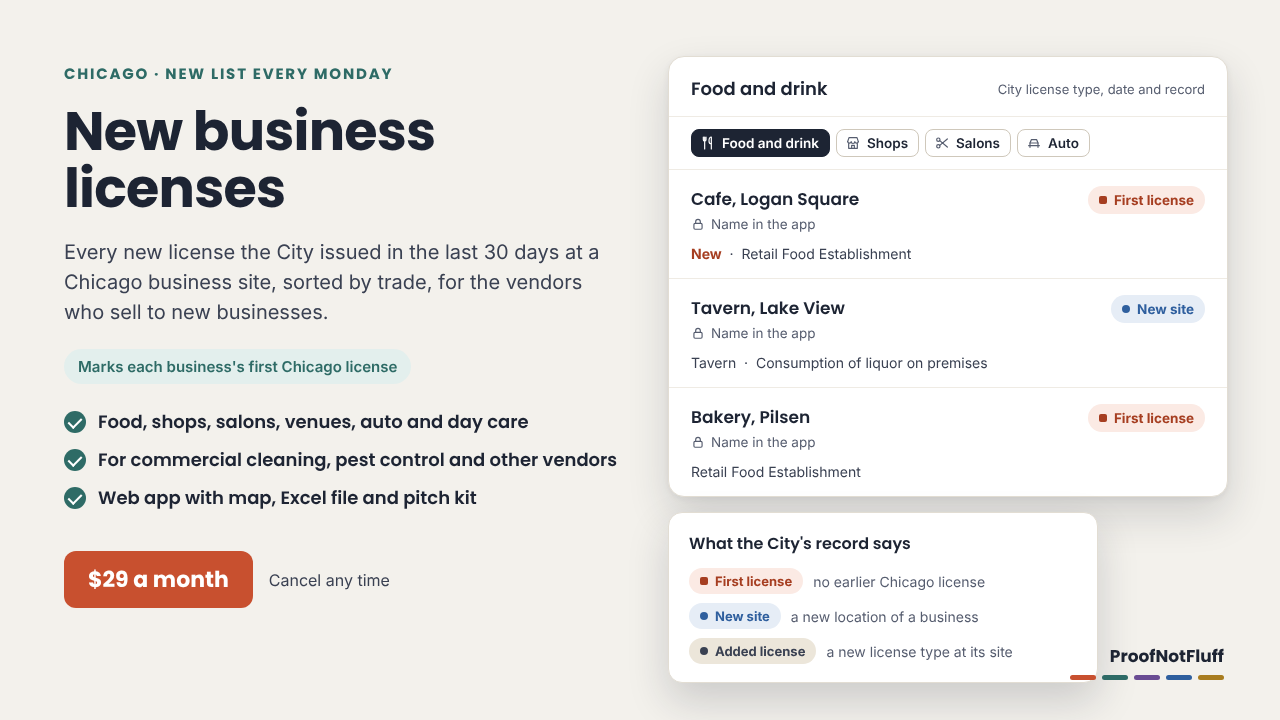
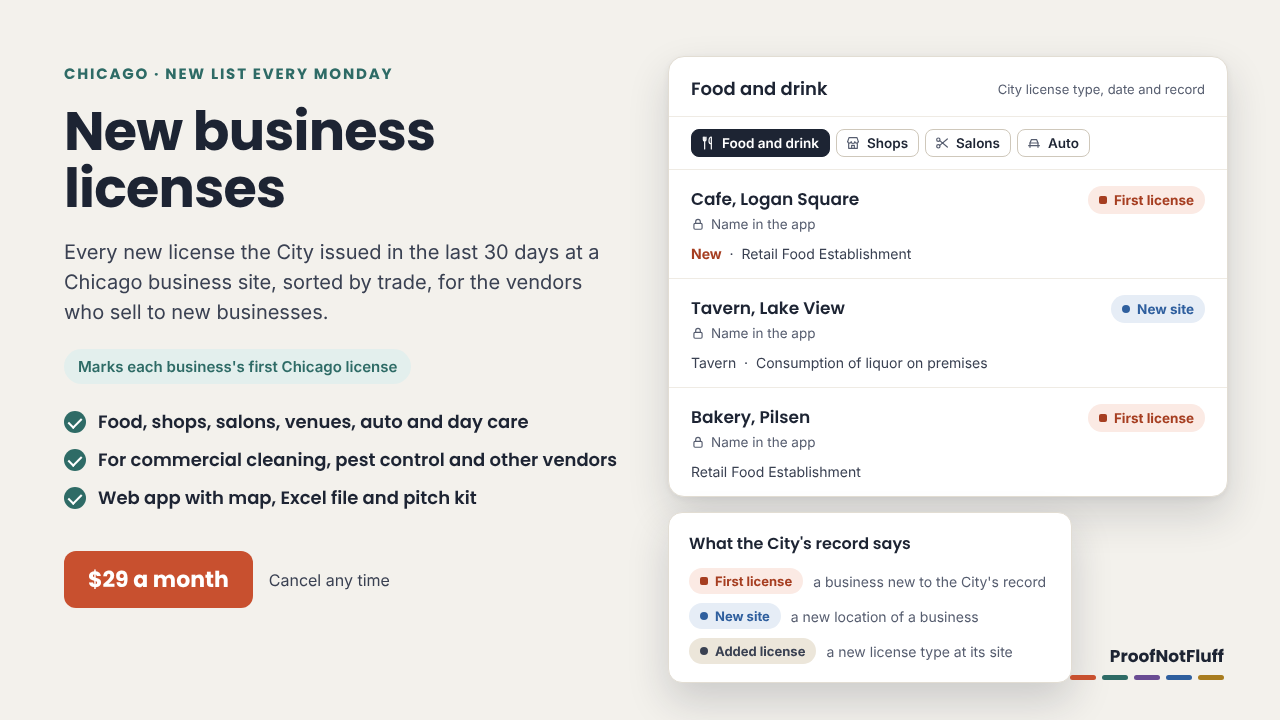
Licenses: one set of trade names on every surface, whole activities, tidier rows, tools README
Claude-Session: https://claude.ai/code/session_01XnX34ksV3GY3Ab6wG7Aich

Changed region(s): [[0.625, 0.7028, 0.875, 0.9472]]

diff --git a/docs/chicago-new-business-licenses/index.html b/docs/chicago-new-business-licenses/index.html
@@ -1,7 +1,7 @@
 <!doctype html>
 <html lang="en"><head><meta charset="utf-8"><meta name="viewport" content="width=device-width,initial-scale=1">
-<title>Chicago New Business Licenses: This Week&#x27;s New Businesses by Trade | ProofNotFluff</title><meta name="description" content="Free weekly sample of new Chicago business licenses by trade: restaurants, shops, salons, venues and auto shops licensed in the last 30 days, for vendors who sell to new businesses.">
-<link rel="canonical" href="https://proofnotfluff.com/chicago-new-business-licenses/"><meta name="robots" content="noindex, nofollow"><script defer src="https://static.cloudflareinsights.com/beacon.min.js" data-cf-beacon='{"token": "b40d887129c342ccb476aa67aad72034"}'></script><meta property="og:title" content="Chicago New Business Licenses: This Week&#x27;s New Businesses by Trade | ProofNotFluff"><meta property="og:description" content="Free weekly sample of new Chicago business licenses by trade: restaurants, shops, salons, venues and auto shops licensed in the last 30 days, for vendors who sell to new businesses.">
+<title>Chicago New Business Licenses: This Week&#x27;s New Licenses by Trade | ProofNotFluff</title><meta name="description" content="Free weekly sample of new Chicago business licenses by trade: restaurants, shops, salons, venues and auto shops licensed in the last 30 days, for vendors who sell to new businesses.">
+<link rel="canonical" href="https://proofnotfluff.com/chicago-new-business-licenses/"><meta name="robots" content="noindex, nofollow"><script defer src="https://static.cloudflareinsights.com/beacon.min.js" data-cf-beacon='{"token": "b40d887129c342ccb476aa67aad72034"}'></script><meta property="og:title" content="Chicago New Business Licenses: This Week&#x27;s New Licenses by Trade | ProofNotFluff"><meta property="og:description" content="Free weekly sample of new Chicago business licenses by trade: restaurants, shops, salons, venues and auto shops licensed in the last 30 days, for vendors who sell to new businesses.">
 <meta property="og:type" content="website"><meta property="og:url" content="https://proofnotfluff.com/chicago-new-business-licenses/">
 <link rel="preconnect" href="https://fonts.googleapis.com"><link rel="preconnect" href="https://fonts.gstatic.com" crossorigin>
 <link href="https://fonts.googleapis.com/css2?family=Poppins:wght@600;700&display=swap" rel="stylesheet">
@@ -10,6 +10,6 @@
 </head><body class="ld-page">
 <header class="top"><div class="wrap"><div><a class="brand" href="../">ProofNotFluff</a><div class="bars"><i></i><i></i><i></i><i></i><i></i></div></div>
 <nav class="top"><a href="../">Free calculators</a><a href="https://proofnotfluff.etsy.com">Etsy shop</a></nav></div></header>
-<main class="wrap"><div class="ld-hero"><p class="eyebrow">Free sample, updated every Monday</p><h1>Chicago New Business Licenses</h1><p class="lede">58 Chicago businesses got a new City business license in the week to Oct 22, 2026, and 231 in the last 30 days. For vendors who sell to a business in its first months: POS and payments, signs, insurance, bookkeeping, cleaning, pest control, waste and supplies.</p><div class="ld-heroact rl-act"><a class="btn ld-btnbig" href="mailto:hello@proofnotfluff.com?subject=Chicago%20New%20Business%20Licenses%3A%20tell%20me%20when%20it%20opens">Tell me when it opens</a><a class="ld-textlink" href="#sample">See this week's sample</a></div><p class="ld-heronote">Not on sale yet. New list every Monday.</p></div><div class="tiles ld-tiles"><div class="tile key"><div class="lab">New in 30 days</div><div class="val">231</div><div class="sub">licensed business sites</div></div><div class="tile"><div class="lab">New this week</div><div class="val">58</div><div class="sub">licensed in the last 7 days</div></div><div class="tile"><div class="lab">Food businesses</div><div class="val">93</div><div class="sub">restaurants, cafes, bars, shops</div></div><div class="tile"><div class="lab">Busiest area this week</div><div class="val lc-area">Lake View</div><div class="sub">5 new licenses</div></div></div><p class="asof">City records pulled Oct 22, 2026. Refreshed every Monday.</p><section class="block"><h2>New businesses by trade, last 30 days</h2><p>Each new business on the list, sorted by what it does, so you can work the trades that buy from you.</p><ol class="rl-trades"><li><span class="nm">Restaurants, cafes, bars and food shops<small>29 new this week</small></span><span class="n">93</span></li><li><span class="nm">Shops, offices and other services<small>21 new this week</small></span><span class="n">90</span></li><li><span class="nm">Salons, barbers, nails, spas and fitness<small>6 new this week</small></span><span class="n">38</span></li><li><span class="nm">Venues, entertainment and lodging<small>1 new this week</small></span><span class="n">2</span></li><li><span class="nm">Auto repair, tire and car wash shops<small>1 new this week</small></span><span class="n">7</span></li><li><span class="nm">Day care and children&#x27;s services<small>0 new this week</small></span><span class="n">1</span></li></ol></section><section class="block" id="sample"><h2>This week's sample</h2><p>Up to three new businesses per trade from the last 7 days. The members' list has every one from the last 30 days, with a map, filters by trade, area and date, and an Excel file.</p><h3 class="lc-h3">Restaurants, cafes, bars and food shops <span>(29 this week)</span></h3><div class="ld-list rl3"><article class="ld-proj"><p class="ld-pill lc-pill">Licensed Oct 21, 2026</p><div class="ld-ptop"><span class="ld-cost" style="font-size:20px">Stew Kitchen</span></div><dl class="ld-meta"><div><dt>Where</dt><dd>4329 N Mozart St 1f, Irving Park</dd></div><div><dt>License</dt><dd>Shared Kitchen User (Long Term)</dd></div><div><dt>Activity</dt><dd>Shared Kitchen User - Long Term</dd></div></dl></article><article class="ld-proj"><p class="ld-pill lc-pill">Licensed Oct 21, 2026</p><div class="ld-ptop"><span class="ld-cost" style="font-size:20px">Pearl Club</span></div><dl class="ld-meta"><div><dt>Where</dt><dd>495-499 N Milwaukee Ave Basement, 1, Mezz., West Town</dd></div><div><dt>License</dt><dd>Tavern</dd></div><div><dt>Activity</dt><dd>Tavern - Consumption of Liquor on Premises</dd></div></dl></article><article class="ld-proj"><p class="ld-pill lc-pill">Licensed Oct 21, 2026</p><div class="ld-ptop"><span class="ld-cost" style="font-size:20px">Millennium Hall Casa Bonita</span></div><dl class="ld-meta"><div><dt>Where</dt><dd>11 N Michigan Ave 1st, Loop</dd></div><div><dt>License</dt><dd>Caterer&#x27;s Liquor License</dd></div><div><dt>Activity</dt><dd>Catering of Liquor To Events</dd></div></dl></article></div><h3 class="lc-h3">Shops, offices and other services <span>(21 this week)</span></h3><div class="ld-list rl3"><article class="ld-proj"><p class="ld-pill lc-pill">Licensed Oct 21, 2026</p><div class="ld-ptop"><span class="ld-cost" style="font-size:20px">Pro Plus Parking</span></div><dl class="ld-meta"><div><dt>Where</dt><dd>1005 N State St 23,4,5,6rt, Near North Side</dd></div><div><dt>License</dt><dd>Commercial Garage</dd></div><div><dt>Activity</dt><dd>Provide 4 or More Parking Spaces For a Fee - to Residents, Tenants, Users, Employees and/or Guests (Not Available or Advertised to the Public)</dd></div></dl></article><article class="ld-proj"><p class="ld-pill lc-pill">Licensed Oct 21, 2026</p><div class="ld-ptop"><span class="ld-cost" style="font-size:20px">Paws &amp; Effect</span></div><dl class="ld-meta"><div><dt>Where</dt><dd>2459 E 75th St, South Shore</dd></div><div><dt>License</dt><dd>Animal Care License</dd></div><div><dt>Activity</dt><dd>Provide Animal Grooming Services</dd></div></dl></article><article class="ld-proj"><p class="ld-pill lc-pill">Licensed Oct 21, 2026</p><div class="ld-ptop"><span class="ld-cost" style="font-size:20px">House of Fragrances Luxe</span></div><dl class="ld-meta"><div><dt>Where</dt><dd>3351 N Harlem Ave, Dunning</dd></div><div><dt>License</dt><dd>Limited Business License</dd></div><div><dt>Activity</dt><dd>Retail Sales of General Merchandise</dd></div></dl></article></div><h3 class="lc-h3">Salons, barbers, nails, spas and fitness <span>(6 this week)</span></h3><div class="ld-list rl3"><article class="ld-proj"><p class="ld-pill lc-pill">Licensed Oct 21, 2026</p><div class="ld-ptop"><span class="ld-cost" style="font-size:20px">One Stop Nails &amp; Spa</span></div><dl class="ld-meta"><div><dt>Where</dt><dd>8145 S Cottage Grove Ave, Chatham</dd></div><div><dt>License</dt><dd>Limited Business License</dd></div><div><dt>Activity</dt><dd>Nail Services | Provide Waxing Services</dd></div></dl></article><article class="ld-proj"><p class="ld-pill lc-pill">Licensed Oct 21, 2026</p><div class="ld-ptop"><span class="ld-cost" style="font-size:20px">Lincoln Park Waxing Studio Inc.</span></div><dl class="ld-meta"><div><dt>Where</dt><dd>2102 N Clark St 1st, Lincoln Park</dd></div><div><dt>License</dt><dd>Limited Business License</dd></div><div><dt>Activity</dt><dd>Skincare Services | Provide Waxing Services</dd></div></dl></article><article class="ld-proj"><p class="ld-pill lc-pill">Licensed Oct 21, 2026</p><div class="ld-ptop"><span class="ld-cost" style="font-size:20px">Emyves Spa</span></div><dl class="ld-meta"><div><dt>Where</dt><dd>7127 N Clark St 1st, Rogers Park</dd></div><div><dt>License</dt><dd>Limited Business License</dd></div><div><dt>Activity</dt><dd>Hair Services | Skincare Services</dd></div></dl></article></div><h3 class="lc-h3">Venues, entertainment and lodging <span>(1 this week)</span></h3><div class="ld-list rl3"><article class="ld-proj"><p class="ld-pill lc-pill">Licensed Oct 15, 2026</p><div class="ld-ptop"><span class="ld-cost" style="font-size:20px">The Smart Bar</span></div><dl class="ld-meta"><div><dt>Where</dt><dd>3730 N Clark St Basement, Lake View</dd></div><div><dt>License</dt><dd>Public Place of Amusement</dd></div><div><dt>Activity</dt><dd>Charges a Fee for Entertainment or Amusements or Recreational Activities</dd></div></dl></article></div><h3 class="lc-h3">Auto repair, tire and car wash shops <span>(1 this week)</span></h3><div class="ld-list rl3"><article class="ld-proj"><p class="ld-pill lc-pill">Licensed Oct 19, 2026</p><div class="ld-ptop"><span class="ld-cost" style="font-size:20px">Bolts and Nuts</span></div><dl class="ld-meta"><div><dt>Where</dt><dd>3353 W Division St 1, Humboldt Park</dd></div><div><dt>License</dt><dd>Motor Vehicle Services License</dd></div><div><dt>Activity</dt><dd>Motor Vehicle Repair - Engine and Transmission Work</dd></div></dl></article></div></section><section class="block"><h2>How to use this list</h2><p>Pick the trades that buy from you. A new restaurant and a new salon need different vendors, so the list is sorted by what each business does.</p><p>Reach out in the first weeks. A business with a new license is often still choosing its vendors, and the license date tells you how recent it is.</p><p>Visit or call the business at its licensed address, name the license and its date, and say in one line what you do for businesses like it.</p><p>If you also have Chicago Restaurant Inspection Leads: food businesses usually get a City food license inspection before the license is issued, and that product lists those inspections as Opening soon. So you will have seen many of the food businesses here a few weeks earlier. Each one is marked in the members&#x27; list, so you can hide them. The other trades are not on the restaurant product.</p></section><section class="block" id="ldCta"><div class="cta ld-cta"><div><h2>Get the full list every Monday</h2><p>Every new business license the City issued in the last 30 days at a Chicago business site, one row per business and site, sorted by trade, with license type, business activity, issue date, address, community area and what the City&#x27;s earlier records say about the business, in a members&#x27; web app and an Excel file.</p><p class="ld-buybtn"><a class="btn ld-btnbig" href="mailto:hello@proofnotfluff.com?subject=Chicago%20New%20Business%20Licenses%3A%20tell%20me%20when%20it%20opens">Tell me when it opens</a></p></div></div></section><section class="block"><h2>Questions</h2><details><summary>Where does this data come from?</summary><p>The City of Chicago Data Portal&#x27;s Business Licenses dataset. We pull it every Monday and keep new licenses (application type Issue) the City issued in the last 30 days at a Chicago business site.</p></details><details><summary>Is every license a brand-new business?</summary><p>Most are. A business that opens another site, or adds a new license type at a site it already has, also gets a new license. The members&#x27; list reads the City&#x27;s earlier licenses for each business and marks which is which: first license, new site or added license.</p></details><details><summary>Who is left out?</summary><p>Renewals and changes, cancelled or revoked licenses, licenses held by a person or for an event or season (such as peddlers, special events, pop-ups, tow trucks, home-sharing, flea market vendors and market stalls), home-based businesses and addresses with an apartment or unit number, sites outside Chicago, and any business whose shown name could be a person&#x27;s name. A business with two licenses at one site is listed once.</p></details><details><summary>Does it overlap with Chicago Restaurant Inspection Leads?</summary><p>Partly, and only for food businesses. That product lists the City&#x27;s food license inspection, which usually comes a few weeks before the food license this list shows. The members&#x27; list marks every row that had that inspection, so a member of both can hide them. Shops, salons, venues, auto shops and day care are only here.</p></details><details><summary>Is every business on the list open?</summary><p>Not necessarily. A license shows the City issued it on that date. Some businesses open the same week, some later.</p></details><details><summary>Do you contact these businesses for me?</summary><p>No. You make your own calls and visits. We never contact anyone on your behalf, and no business listed has endorsed or works with ProofNotFluff.</p></details></section></main>
+<main class="wrap"><div class="ld-hero"><p class="eyebrow">Free sample, updated every Monday</p><h1>Chicago New Business Licenses</h1><p class="lede">58 Chicago businesses got a new City business license in the week to Oct 22, 2026, and 231 in the last 30 days. For vendors who sell to a business in its first months: POS and payments, signs, insurance, bookkeeping, cleaning, pest control, waste and supplies.</p><div class="ld-heroact rl-act"><a class="btn ld-btnbig" href="mailto:hello@proofnotfluff.com?subject=Chicago%20New%20Business%20Licenses%3A%20tell%20me%20when%20it%20opens">Tell me when it opens</a><a class="ld-textlink" href="#sample">See this week's sample</a></div><p class="ld-heronote">Not on sale yet. New list every Monday.</p></div><div class="tiles ld-tiles"><div class="tile key"><div class="lab">New in 30 days</div><div class="val">231</div><div class="sub">licensed business sites</div></div><div class="tile"><div class="lab">New this week</div><div class="val">58</div><div class="sub">licensed in the last 7 days</div></div><div class="tile"><div class="lab">Food businesses</div><div class="val">93</div><div class="sub">restaurants, cafes, bars, shops</div></div><div class="tile"><div class="lab">Busiest area this week</div><div class="val lc-area">Lake View</div><div class="sub">5 new licenses</div></div></div><p class="asof">City records pulled Oct 22, 2026. Refreshed every Monday.</p><section class="block"><h2>New licenses by trade, last 30 days</h2><p>Each business on the list, sorted by what it does, so you can work the trades that buy from you.</p><ol class="rl-trades"><li><span class="nm">Food and drink<small>Restaurants, cafes, bars, caterers, groceries and other food shops. 29 new this week</small></span><span class="n">93</span></li><li><span class="nm">Shops and services<small>Shops, offices, studios, manufacturers and other services. 21 new this week</small></span><span class="n">90</span></li><li><span class="nm">Salons, spas, fitness<small>Salons, barbers, nails, skin care, spas, gyms and studios. 6 new this week</small></span><span class="n">38</span></li><li><span class="nm">Venues and lodging<small>Event venues, entertainment, hotels and lodging. 1 new this week</small></span><span class="n">2</span></li><li><span class="nm">Auto shops<small>Auto repair, tire shops, car washes and gas stations. 1 new this week</small></span><span class="n">7</span></li><li><span class="nm">Day care<small>Day care and children&#x27;s services. 0 new this week</small></span><span class="n">1</span></li></ol></section><section class="block" id="sample"><h2>This week's sample</h2><p>Up to three businesses per trade licensed in the last 7 days. The members' list has every one from the last 30 days, with a map, filters by trade, area and date, and an Excel file.</p><h3 class="lc-h3">Food and drink <span>(29 this week)</span></h3><div class="ld-list rl3"><article class="ld-proj"><p class="ld-pill lc-pill">Licensed Oct 21, 2026</p><div class="ld-ptop"><span class="ld-cost" style="font-size:20px">Stew Kitchen</span></div><dl class="ld-meta"><div><dt>Where</dt><dd>4329 N Mozart St 1f, Irving Park</dd></div><div><dt>License</dt><dd>Shared Kitchen User (Long Term)</dd></div><div><dt>Activity</dt><dd>Shared Kitchen User - Long Term</dd></div></dl></article><article class="ld-proj"><p class="ld-pill lc-pill">Licensed Oct 21, 2026</p><div class="ld-ptop"><span class="ld-cost" style="font-size:20px">Pearl Club</span></div><dl class="ld-meta"><div><dt>Where</dt><dd>495-499 N Milwaukee Ave Basement, 1, Mezz., West Town</dd></div><div><dt>License</dt><dd>Tavern</dd></div><div><dt>Activity</dt><dd>Tavern - Consumption of Liquor on Premises</dd></div></dl></article><article class="ld-proj"><p class="ld-pill lc-pill">Licensed Oct 21, 2026</p><div class="ld-ptop"><span class="ld-cost" style="font-size:20px">Millennium Hall Casa Bonita</span></div><dl class="ld-meta"><div><dt>Where</dt><dd>11 N Michigan Ave 1st, Loop</dd></div><div><dt>License</dt><dd>Caterer&#x27;s Liquor License</dd></div><div><dt>Activity</dt><dd>Catering of Liquor To Events</dd></div></dl></article></div><h3 class="lc-h3">Shops and services <span>(21 this week)</span></h3><div class="ld-list rl3"><article class="ld-proj"><p class="ld-pill lc-pill">Licensed Oct 21, 2026</p><div class="ld-ptop"><span class="ld-cost" style="font-size:20px">Pro Plus Parking</span></div><dl class="ld-meta"><div><dt>Where</dt><dd>1005 N State St 23,4,5,6rt, Near North Side</dd></div><div><dt>License</dt><dd>Commercial Garage</dd></div><div><dt>Activity</dt><dd>Provide 4 or More Parking Spaces For a Fee - to Residents, Tenants, Users, Employees and/or Guests (Not Available or Advertised to the Public)</dd></div></dl></article><article class="ld-proj"><p class="ld-pill lc-pill">Licensed Oct 21, 2026</p><div class="ld-ptop"><span class="ld-cost" style="font-size:20px">Paws &amp; Effect</span></div><dl class="ld-meta"><div><dt>Where</dt><dd>2459 E 75th St, South Shore</dd></div><div><dt>License</dt><dd>Animal Care License</dd></div><div><dt>Activity</dt><dd>Provide Animal Grooming Services</dd></div></dl></article><article class="ld-proj"><p class="ld-pill lc-pill">Licensed Oct 21, 2026</p><div class="ld-ptop"><span class="ld-cost" style="font-size:20px">House of Fragrances Luxe</span></div><dl class="ld-meta"><div><dt>Where</dt><dd>3351 N Harlem Ave, Dunning</dd></div><div><dt>License</dt><dd>Limited Business License</dd></div><div><dt>Activity</dt><dd>Retail Sales of General Merchandise</dd></div></dl></article></div><h3 class="lc-h3">Salons, spas, fitness <span>(6 this week)</span></h3><div class="ld-list rl3"><article class="ld-proj"><p class="ld-pill lc-pill">Licensed Oct 21, 2026</p><div class="ld-ptop"><span class="ld-cost" style="font-size:20px">One Stop Nails &amp; Spa</span></div><dl class="ld-meta"><div><dt>Where</dt><dd>8145 S Cottage Grove Ave, Chatham</dd></div><div><dt>License</dt><dd>Limited Business License</dd></div><div><dt>Activity</dt><dd>Nail Services | Provide Waxing Services</dd></div></dl></article><article class="ld-proj"><p class="ld-pill lc-pill">Licensed Oct 21, 2026</p><div class="ld-ptop"><span class="ld-cost" style="font-size:20px">Lincoln Park Waxing Studio Inc.</span></div><dl class="ld-meta"><div><dt>Where</dt><dd>2102 N Clark St 1st, Lincoln Park</dd></div><div><dt>License</dt><dd>Limited Business License</dd></div><div><dt>Activity</dt><dd>Skincare Services | Provide Waxing Services</dd></div></dl></article><article class="ld-proj"><p class="ld-pill lc-pill">Licensed Oct 21, 2026</p><div class="ld-ptop"><span class="ld-cost" style="font-size:20px">Emyves Spa</span></div><dl class="ld-meta"><div><dt>Where</dt><dd>7127 N Clark St 1st, Rogers Park</dd></div><div><dt>License</dt><dd>Limited Business License</dd></div><div><dt>Activity</dt><dd>Hair Services | Skincare Services</dd></div></dl></article></div><h3 class="lc-h3">Venues and lodging <span>(1 this week)</span></h3><div class="ld-list rl3"><article class="ld-proj"><p class="ld-pill lc-pill">Licensed Oct 15, 2026</p><div class="ld-ptop"><span class="ld-cost" style="font-size:20px">The Smart Bar</span></div><dl class="ld-meta"><div><dt>Where</dt><dd>3730 N Clark St Basement, Lake View</dd></div><div><dt>License</dt><dd>Public Place of Amusement</dd></div><div><dt>Activity</dt><dd>Charges a Fee for Entertainment or Amusements or Recreational Activities</dd></div></dl></article></div><h3 class="lc-h3">Auto shops <span>(1 this week)</span></h3><div class="ld-list rl3"><article class="ld-proj"><p class="ld-pill lc-pill">Licensed Oct 19, 2026</p><div class="ld-ptop"><span class="ld-cost" style="font-size:20px">Bolts and Nuts</span></div><dl class="ld-meta"><div><dt>Where</dt><dd>3353 W Division St 1, Humboldt Park</dd></div><div><dt>License</dt><dd>Motor Vehicle Services License</dd></div><div><dt>Activity</dt><dd>Motor Vehicle Repair - Engine and Transmission Work</dd></div></dl></article></div></section><section class="block"><h2>How to use this list</h2><p>Pick the trades that buy from you. A new restaurant and a new salon need different vendors, so the list is sorted by what each business does.</p><p>Reach out in the first weeks. A business with a new license is often still choosing its vendors, and the license date tells you how recent it is.</p><p>Visit or call the business at its licensed address, name the license and its date, and say in one line what you do for businesses like it.</p><p>If you also have Chicago Restaurant Inspection Leads: food businesses usually get a City food license inspection before the license is issued, and that product lists those inspections as Opening soon. So you will have seen many of the food businesses here a few weeks earlier. Each one is marked in the members&#x27; list, so you can hide them. The other trades are not on the restaurant product.</p></section><section class="block" id="ldCta"><div class="cta ld-cta"><div><h2>Get the full list every Monday</h2><p>Every new business license the City issued in the last 30 days at a Chicago business site, one row per business and site, sorted by trade, with license type, business activity, issue date, address, community area and what the City&#x27;s earlier records say about the business, in a members&#x27; web app and an Excel file.</p><p class="ld-buybtn"><a class="btn ld-btnbig" href="mailto:hello@proofnotfluff.com?subject=Chicago%20New%20Business%20Licenses%3A%20tell%20me%20when%20it%20opens">Tell me when it opens</a></p></div></div></section><section class="block"><h2>Questions</h2><details><summary>Where does this data come from?</summary><p>The City of Chicago Data Portal&#x27;s Business Licenses dataset. We pull it every Monday and keep new licenses (application type Issue) the City issued in the last 30 days at a Chicago business site.</p></details><details><summary>Is every license a brand-new business?</summary><p>Most are. A business that opens another site, or adds a new license type at a site it already has, also gets a new license. The members&#x27; list reads the City&#x27;s earlier licenses for each business and marks which is which: first license, new site or added license.</p></details><details><summary>Who is left out?</summary><p>Renewals and changes, cancelled or revoked licenses, licenses held by a person or for an event or season (such as peddlers, special events, pop-ups, tow trucks, home-sharing, flea market vendors and market stalls), home-based businesses and addresses with an apartment or unit number, sites outside Chicago, and any business whose shown name could be a person&#x27;s name. A business with two licenses at one site is listed once.</p></details><details><summary>Does it overlap with Chicago Restaurant Inspection Leads?</summary><p>Partly, and only for food businesses. That product lists the City&#x27;s food license inspection, which usually comes a few weeks before the food license this list shows. The members&#x27; list marks every row that had that inspection, so a member of both can hide them. Shops, salons, venues, auto shops and day care are only here.</p></details><details><summary>Is every business on the list open?</summary><p>Not necessarily. A license shows the City issued it on that date. Some businesses open the same week, some later.</p></details><details><summary>Do you contact these businesses for me?</summary><p>No. You make your own calls and visits. We never contact anyone on your behalf, and no business listed has endorsed or works with ProofNotFluff.</p></details></section></main>
 <footer><div class="wrap"><p>Source: City of Chicago Data Portal, Business Licenses (https://data.cityofchicago.org/Community-Economic-Development/Business-Licenses/r5kz-chrr), pulled Oct 22, 2026. Filtered by ProofNotFluff: new business licenses (application type Issue) issued in the last 30 days at a Chicago business site, one row per business and address. Left out: licenses held by a person or for an event or season (peddlers, special events, pop-ups, tow trucks, home-sharing), home or apartment addresses, and any business whose name could be a person&#x27;s name. Business-level fields only. A license shows the City issued it on that date; it does not say a business is open today or buying anything. No business named here has endorsed or works with ProofNotFluff. Public information for planning sales calls; not legal or business advice and no promise of work.</p><p>This site provides applications using data that has been modified for use from its original source, www.cityofchicago.org, the official website of the City of Chicago. The City of Chicago makes no claims as to the content, accuracy, timeliness, or completeness of any of the data provided at this site. The data provided at this site is subject to change at any time. It is understood that the data provided at this site is being used at one’s own risk.</p><p>ProofNotFluff is not affiliated with or endorsed by the City of Chicago.</p><p>Made by ProofNotFluff with AI assistance from public City data. The page counts visits with Cloudflare Web Analytics, which sets no cookies, and loads its heading font from Google Fonts.</p></div></footer>
 </body></html>

diff --git a/launches/chicago-new-business-licenses/cover.html b/launches/chicago-new-business-licenses/cover.html
@@ -23,7 +23,7 @@ ul{list-style:none;margin:24px 0 0}
 .lbl b{display:block;font:600 17px P;color:#1D2433}.lbl span{display:inline-flex;align-items:center;gap:6px;margin-top:4px;font-size:13.5px;color:#565D6F}
 .mt{margin-top:10px;font-size:14px;color:#3A4152}.mt b{color:#A63E21;font-weight:700}
 .rr{display:flex;align-items:flex-start}
-.card2{position:absolute;left:668px;top:512px;width:430px;background:#fff;border:1px solid #E2DDD3;border-radius:14px;box-shadow:0 18px 40px rgba(29,36,51,.18);padding:18px 20px}
+.card2{position:absolute;left:668px;top:512px;width:404px;background:#fff;border:1px solid #E2DDD3;border-radius:14px;box-shadow:0 18px 40px rgba(29,36,51,.18);padding:18px 20px}
 .card2 h3{font:600 16px P;margin:0 0 12px}
 .card2 ul{margin:0}.card2 li{display:flex;align-items:center;gap:10px;margin:0 0 9px;font:600 14px In}.card2 li:last-child{margin:0}
 .card2 .hi{height:26px;font-size:13px}.card2 .t{color:#565D6F;font-weight:400}
@@ -44,7 +44,7 @@ ul{list-style:none;margin:24px 0 0}
 <p class="mt">Retail Food Establishment</p></div><div class="rr"><span class="hi first"><i></i>First license</span></div></div>
 </div>
 <div class="card2"><h3>What the City's record says</h3><ul>
-<li><span class="hi first"><i></i>First license</span><span class="t">no earlier Chicago license</span></li>
+<li><span class="hi first"><i></i>First license</span><span class="t">a business new to the City's record</span></li>
 <li><span class="hi site"><i></i>New site</span><span class="t">a new location of a business</span></li>
 <li><span class="hi added"><i></i>Added license</span><span class="t">a new license type at its site</span></li></ul></div>
 <div class="brand">ProofNotFluff<div class="bars5"><b style="background:#C8502F"></b><b style="background:#2E6B66"></b><b style="background:#6A4C93"></b><b style="background:#2F5F9E"></b><b style="background:#A87C1F"></b></div></div>

diff --git a/tools/lic_app.py b/tools/lic_app.py
@@ -136,7 +136,7 @@ PAGE = r"""<!doctype html>
 .row .bd .mi.ty{white-space:normal}
 .row .nwt{color:var(--accent-ink);font-weight:700}
 .row .ctx{color:var(--teal);font-weight:700;display:inline-flex;align-items:center;gap:4px}
-.row .fit{color:var(--muted);font-size:13px}
+.row .fit{color:var(--muted);font-size:13.5px}.row .fit b{color:var(--ink2);font-weight:600}
 .row{grid-template-columns:minmax(0,1fr) auto}
 .row .rt{grid-row:1 / span 3;flex-direction:column;align-items:flex-end;flex-wrap:nowrap;max-width:220px;gap:6px}
 @media(max-width:600px){.row{grid-template-columns:minmax(0,1fr)}.row .rt{grid-row:auto;flex-direction:row;align-items:center;flex-wrap:wrap;max-width:none}}
@@ -201,7 +201,7 @@ PAGE = r"""<!doctype html>
 .terms{max-width:780px}.terms .tx p{max-width:none}.terms .tx h3{font:600 14px var(--body);letter-spacing:.04em;color:var(--ink);margin:18px 0 6px}
 .terms .tx h3:first-child{margin-top:0}
 #fsheetH:focus{outline:none;box-shadow:none}
-@media(max-width:860px){.vtog button{height:44px}.rbar .lnk,.ovl .lnk{min-height:44px;padding:0 4px}.tog{min-height:44px}}
+@media(max-width:860px){.rbar .lnk,.ovl .lnk{min-height:44px;padding:0 4px}.tog{min-height:44px}}
 .pick{display:flex;flex-wrap:wrap;align-items:flex-end;gap:10px 14px;margin:14px 0 0}
 .pick .fld select{max-width:300px}
 .pick p{margin:0;color:var(--muted);font-size:14px;line-height:40px}
@@ -313,13 +313,13 @@ if(scroll){window.scrollTo(0,0);const h=app.querySelector("h1");if(h){h.setAttri
 
 /* a row in any list */
 function row(r,ov){const m=mk(r.id);
-const meta=[r.nw?'<span class="nwt">New</span>':"",`<span>Licensed ${dayShort(r.d)}</span>`,`<span>${esc(r.ty)}</span>`,
+const meta=[r.nw?'<span class="nwt">New</span>':"",`<span>Licensed ${dayShort(r.d)}</span>`,
  r.fi?`<span>License inspection ${dayShort(r.fi)}</span>`:"",m.c?`<span class="ctx">${ico("check","s")}Contacted</span>`:""].filter(Boolean)
- .map((t,i)=>`<span class="mi${i&&/^<span>[^<]{28,}/.test(t)?" ty":""}">${i?'<span class="dot" aria-hidden="true">&middot;</span>':""}${t}</span>`).join("");
+ .map((t,i)=>`<span class="mi">${i?'<span class="dot" aria-hidden="true">&middot;</span>':""}${t}</span>`).join("");
 return `<li><a class="row" href="#/biz/${encodeURIComponent(r.id)}" data-id="${esc(r.id)}">
 <span class="mn">${esc(r.n)}</span>
 <span class="ad">${esc(r.a)}${r.ar?`<span class="ar">, ${esc(r.ar)}</span>`:""}</span>
-<span class="bd">${meta}</span>${r.ac?`<span class="bd"><span class="fit">${esc(r.ac)}</span></span>`:""}
+<span class="bd">${meta}</span><span class="bd"><span class="fit"><b>${esc(r.ty)}</b>${r.ac&&r.ac!==r.ty?": "+esc(r.ac):""}</span></span>
 <span class="rt">${ov?tch(r.t):""}${hi(r)}</span>${ico("chev","chev")}</a></li>`;}
 function rowsHtml(list,limit,ov){if(!list.length)return "";const n=Math.min(limit||list.length,list.length);return `<ul class="list-rows">${list.slice(0,n).map(r=>row(r,ov)).join("")}</ul>`;}
 const newest=(a,b)=>b.d.localeCompare(a.d)||a.n.localeCompare(b.n);
@@ -374,7 +374,7 @@ const foodish=!f.t||f.t==="food";
 $("#app").innerHTML=`<div class="ph"><div><h1>${tr?esc(tr.short):"All businesses"}</h1></div></div>
 <nav class="lsw" aria-label="Trades"><a href="${writeF(Object.assign({},f,{t:"",type:""}))}"${!f.t?' aria-current="page"':""}>${ico("all")}All<span class="c num">${int(R.length)}</span></a>${TORD.map(k=>`<a href="${writeF(Object.assign({},f,{t:k,type:"",fi:k==="food"?f.fi:""}))}"${k===f.t?' aria-current="page"':""}>${ico(k)}${esc(TR[k].short)}<span class="c num">${int(inTrade(k).length)}</span></a>`).join("")}</nav>
 <p class="ldesc">${tr?esc(tr.kinds)+" with a new City license in the last 30 days.":"Every business with a new City license in the last 30 days, at a Chicago business site."} Newest first.</p>
-${foodish&&D.checks.food?`<p class="ovl"><b>Also a member of Chicago Restaurant Inspection Leads?</b> ${esc(W.overlap)} <button class="lnk" type="button" id="hideFood">Hide them here</button></p>`:""}
+${foodish&&D.checks.food?`<p class="ovl"><b>Also a member of Chicago Restaurant Inspection Leads?</b> Food businesses with a License inspection date most likely showed up on its Opening soon list first. <button class="lnk" type="button" id="hideFood">Hide them here</button></p>`:""}
 <div class="tool"><label class="search"><span class="sr">Search this list</span>${ico("search")}<input id="fq" type="search" placeholder="Search name, address, license or activity" value="${esc(f.q)}" autocomplete="off" enterkeyhint="search"><button type="button" class="clr" id="fqx" aria-label="Clear search"${f.q?"":" hidden"}>${ico("x","s")}</button></label>
 <div class="seg" id="fh" role="group" aria-label="On the City's record"></div>
 <button class="btn fbtn" id="fopen" type="button" aria-haspopup="dialog" aria-controls="fsheet">${ico("filter")}<span id="fopenT">Filters</span></button>

diff --git a/tools/licenses_chicago.py b/tools/licenses_chicago.py
@@ -56,6 +56,16 @@ SEGMENTS = [
      r"PUBLIC PLACE OF AMUSEMENT|AMUSEMENT|ENTERTAINMENT|HOTEL|MOTEL|HOSTEL|BANQUET|EVENT SPACE|THEATER|THEATRE"),
     ("retail", "Shops, offices and other services", r"."),
 ]
+# The trades as buyers read them (tab, short label, what kinds of business), in tab order: the workbook, the members' app
+# and the free page all use these names (tools/lic_xlsx.py, tools/lic_app.py, tools/lic_site.py).
+TRADES = [  # key, tab, short label, what kinds of business
+    ("food", "1 Food and drink", "Food and drink", "Restaurants, cafes, bars, caterers, groceries and other food shops"),
+    ("retail", "2 Shops and services", "Shops and services", "Shops, offices, studios, manufacturers and other services"),
+    ("beauty", "3 Salons, spas, fitness", "Salons, spas, fitness", "Salons, barbers, nails, skin care, spas, gyms and studios"),
+    ("venue", "4 Venues and lodging", "Venues and lodging", "Event venues, entertainment, hotels and lodging"),
+    ("auto", "5 Auto shops", "Auto shops", "Auto repair, tire shops, car washes and gas stations"),
+    ("care", "6 Day care", "Day care", "Day care and children's services"),
+]
 # A shown name could be a person's when it has two to four plain words and none of them is a business word.
 BUSINESS_WORDS = re.compile(
     r"\b(?:LLC|L\.L\.C|INC|CORP|CORPORATION|CO|COMPANY|LTD|LP|LLP|PLLC|PC|GROUP|HOLDINGS|ENTERPRISES?|SERVICES?|SOLUTIONS|"
@@ -131,10 +141,23 @@ def keep(r, since, today):
     num = lambda k: str(r.get(k) or "").split(".")[0]
     return {"license": num("license_number") or num("license_id"),
             "business": name_case(shown), "address": street(addr), "zip": (r.get("zip_code") or "")[:5],
-            "licenseType": desc, "otherTypes": [], "activity": re.sub(r"\s+", " ", (r.get("business_activity") or "").strip())[:160],
+            "licenseType": desc, "otherTypes": [], "activity": activity_text(r.get("business_activity")),
             "issued": issued, "segment": segment(desc, r.get("business_activity") or ""),
             "lat": _coord(r.get("latitude")), "lon": _coord(r.get("longitude")), "communityArea": "",
             "_acct": num("account_number"), "_site": num("site_number")}, ""
+
+
+def activity_text(a, cap=300):
+    """The City's business activity, whole activities only: a long list ends at the last full one (never mid-word)."""
+    a = re.sub(r"\s+", " ", (a or "").strip())
+    if len(a) <= cap:
+        return a
+    parts, out = a.split(" | "), []
+    for x in parts:
+        if len(" | ".join(out + [x])) > cap:
+            break
+        out.append(x)
+    return " | ".join(out) if out else a[:cap].rsplit(" ", 1)[0]
 
 
 def _coord(v):
@@ -494,6 +517,9 @@ def selftest():
             "not a new license (renewal or change)": 1, "issued outside the window": 1, "site outside Chicago": 1,
             "license not active (cancelled or revoked)": 1}
     assert dict(reasons) == want, dict(reasons)
+    long = " | ".join(["Retail Sales of General Merchandise and Non-Perishable Food"] * 8)
+    assert activity_text(long) == " | ".join(["Retail Sales of General Merchandise and Non-Perishable Food"] * 4), activity_text(long)
+    assert activity_text("Hair Services") == "Hair Services"
     print(f"licenses selftest ok (12 planted names, 7 planted trades, {len(rows)} planted licenses, 2 planted removals, 5 planted histories, 2 planted food inspections)")
 
 

diff --git a/tools/lic_site.py b/tools/lic_site.py
@@ -21,7 +21,10 @@ def page_html(p):
     import make_site as M
     E = M.E
     d = json.load(open(os.path.join(ROOT, p["data"]), encoding="utf-8"))
-    c, w, names = d["counts"], d["window"], d["segmentNames"]
+    from licenses_chicago import TRADES      # the trade names the members' app and workbook use (one source)
+    c, w = d["counts"], d["window"]
+    names = {k: s for k, _, s, _ in TRADES}
+    kinds = {k: x for k, _, _, x in TRADES}
     url = M.BASE + p["slug"] + "/"
     rel = "../"
     checkout, price = p.get("checkout"), p.get("price")
@@ -53,14 +56,14 @@ def page_html(p):
              f'<div class="tile"><div class="lab">Food businesses</div><div class="val">{s30.get("food", 0):,}</div><div class="sub">restaurants, cafes, bars, shops</div></div>'
              + (f'<div class="tile"><div class="lab">Busiest area this week</div><div class="val lc-area">{E(top_area[0])}</div><div class="sub">{top_area[1]:,} new licenses</div></div>' if top_area else "")
              + f'</div><p class="asof">City records pulled {E(pulled)}. Refreshed every Monday.</p>')
-    trades = ('<section class="block"><h2>New businesses by trade, last 30 days</h2><p>Each new business on the list, sorted by what it does, '
+    trades = ('<section class="block"><h2>New licenses by trade, last 30 days</h2><p>Each business on the list, sorted by what it does, '
               'so you can work the trades that buy from you.</p><ol class="rl-trades">'
-              + "".join(f'<li><span class="nm">{E(names[k])}<small>{sw.get(k, 0):,} new this week</small></span><span class="n">{s30.get(k, 0):,}</span></li>'
+              + "".join(f'<li><span class="nm">{E(names[k])}<small>{E(kinds[k])}. {sw.get(k, 0):,} new this week</small></span><span class="n">{s30.get(k, 0):,}</span></li>'
                         for k in ORDER if k in names)
               + '</ol></section>')
     segs = "".join(f'<h3 class="lc-h3">{E(names[k])} <span>({sw.get(k, 0):,} this week)</span></h3><div class="ld-list rl3">{"".join(card(x) for x in d["segments"][k][:3])}</div>'
                    for k in ORDER if d["segments"].get(k))
-    sample = (f'<section class="block" id="sample"><h2>This week\'s sample</h2><p>Up to three new businesses per trade from the last 7 days. '
+    sample = (f'<section class="block" id="sample"><h2>This week\'s sample</h2><p>Up to three businesses per trade licensed in the last 7 days. '
               'The members\' list has every one from the last 30 days, with a map, filters by trade, area and date, and an Excel file.</p>'
               f'{segs}</section>')
     method = '<section class="block"><h2>How to use this list</h2>' + "".join(f"<p>{E(x)}</p>" for x in p["method"]) + "</section>"

diff --git a/tools/lic_xlsx.py b/tools/lic_xlsx.py
@@ -34,14 +34,7 @@ RECORD = "https://data.cityofchicago.org/resource/r5kz-chrr.json?license_number=
 RESTAURANT = "Chicago Restaurant Inspection Leads"
 
 # ---------------------------------------------------------------- trades (keys from tools/licenses_chicago.py SEGMENTS)
-TRADES = [  # key, tab, short label, what kinds of business
-    ("food", "1 Food and drink", "Food and drink", "Restaurants, cafes, bars, caterers, groceries and other food shops"),
-    ("retail", "2 Shops and services", "Shops and services", "Shops, offices, studios, manufacturers and other services"),
-    ("beauty", "3 Salons, spas, fitness", "Salons, spas, fitness", "Salons, barbers, nails, skin care, spas, gyms and studios"),
-    ("venue", "4 Venues and lodging", "Venues and lodging", "Event venues, entertainment, hotels and lodging"),
-    ("auto", "5 Auto shops", "Auto shops", "Auto repair, tire shops, car washes and gas stations"),
-    ("care", "6 Day care", "Day care", "Day care and children's services"),
-]
+from licenses_chicago import TRADES  # noqa: E402  (key, tab, short label, kinds: one source with the free page)
 TAB = {k: t for k, t, _, _ in TRADES}
 SHORT = {k: s for k, _, s, _ in TRADES}
 KINDS = {k: w for k, _, _, w in TRADES}

diff --git a/tools/README.md b/tools/README.md
@@ -145,6 +145,16 @@ Weekly leads from the City's Food Inspections data for pest control, hood cleani
 - `tools/rest_site.py` (called by make_site.py for kind `restleads`): the free sample page; `python3 tools/rest_site.py` runs its selftest.
 - The inspections workflow runs all of it every Monday; the members' app is built only once the `REST_LEADS_PASSWORD` Actions secret exists.
 
+## Chicago New Business Licenses: licenses_chicago.py and lic_*.py (Oct 2026, product 4, not launched)
+
+Weekly leads from the City's Business Licenses data (r5kz-chrr) for commercial cleaning, pest control and other vendors to new businesses. The members' full list is built in the runner only; app and workbook are built from it there.
+
+- `tools/licenses_chicago.py --full FULL.json` (runner only): new licenses in the last 30 days at a Chicago business site, one row per business and site (the earliest license in the window, later ones in `otherTypes`), by trade, with the City record history (`first`, `site`, `added`, counted from before the window) and the newest City food license inspection (Food Inspections 4ijn-s7e5, any license at the site). Writes the free sample, profile and terms page. `--dnl-add --license N` (or `--name` and `--address`) adds a removal to `permits/licenses-chicago/do_not_list.json`. `--selftest`: names, trades, licenses, removals, histories, food inspections, activity trimming.
+- `tools/lic_xlsx.py FULL.json OUT.xlsx`: the workbook (Start Here, 1 Food and drink to 6 Day care, Pitch kit, Terms with the City's Data Terms of Use word for word from `permits/licenses-chicago/city-terms.json`). It holds the shared words (trades, LEFT_OUT, OVERLAP, history labels, PITCH, terms_text). `--terms-check TERMS.txt` stops the build when the City's fetched terms differ from the Legal desk's snapshot.
+- `tools/lic_app.py FULL.json OUT.xlsx docs/chicago-new-business-licenses-members/index.html` with `LIC_LEADS_PASSWORD` (or `--pw-file`), `--check` also proves the app's rows and every workbook tab match the runner's list field for field: the members' app (overview by trade, list with map and filters, business page, pitch kit, Terms before the password, CSV, workbook download). Reuses leads_app.py's stylesheet and Leaflet and leads_page.py's encryption.
+- `tools/lic_site.py` (called by make_site.py for kind `licleads`): the free sample page, a noindex draft with no checkout until launch.
+- The licenses workflow runs all of it every Monday; the members' app is built only once the `LIC_LEADS_PASSWORD` Actions secret exists. While `permits/licenses-chicago/list-seal.pub.pem` exists (gate runs only), the runner also seals the list to `list.sealed.json` for the crew's checks; the private key lives only with the live session.
+
 ## Downstream leads pipeline (restructure, Oct 22, 2026)
 Code fetches, joins and checks; the agent only matches and drafts between gates; Todd verifies before anything sends. Every script exits 0 on pass and 1 on any violation, and a non-zero exit stops the stage.
 - `socrata.py`: the shared Socrata client (paged, checked against the portal's own count, retried, raises SocrataError).
